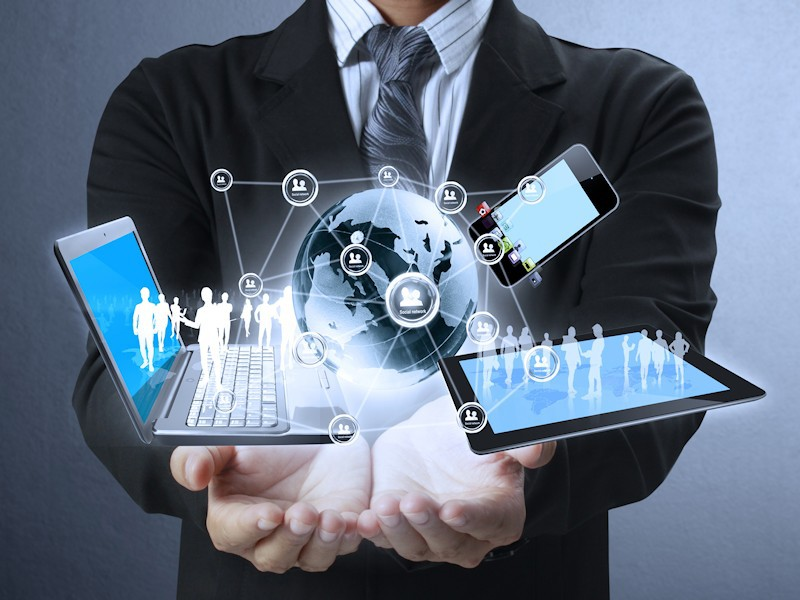
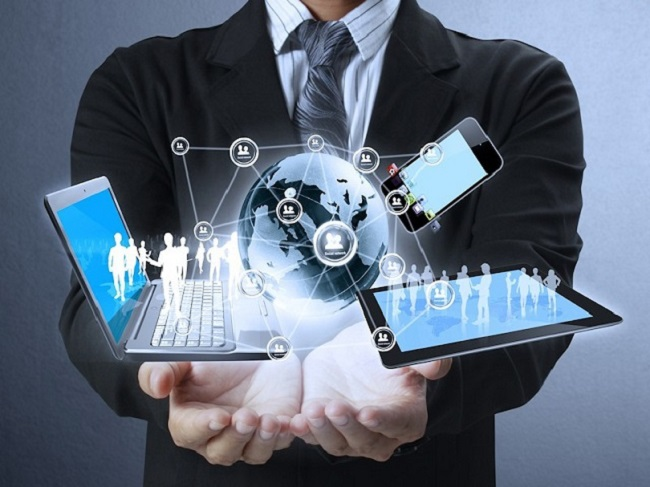
add project

diff --git a/styles/style.css b/styles/style.css
@@ -169,7 +169,7 @@ header nav p:not(:last-child) {
 }
 
 .image {
-    background-image: url(../image/a74fd3c11124ce0e080868b14a29cade.jpg);
+    background-image: url(../image/it_sfera.jpg);
     width: 640px;
     height: 365px;
     background-repeat: no-repeat;
